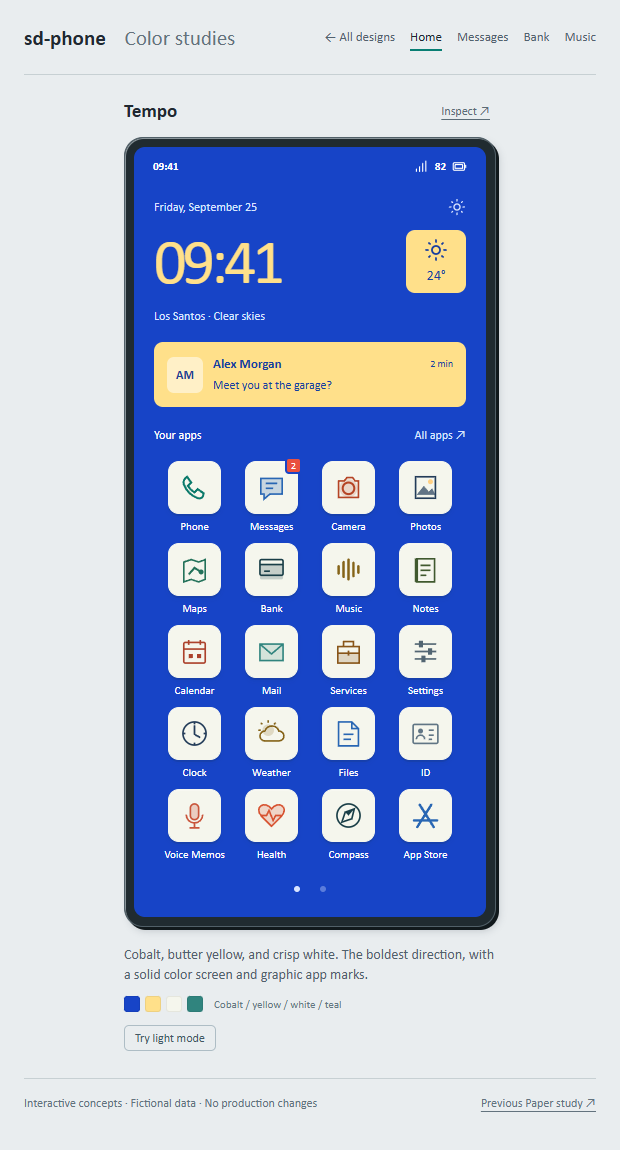
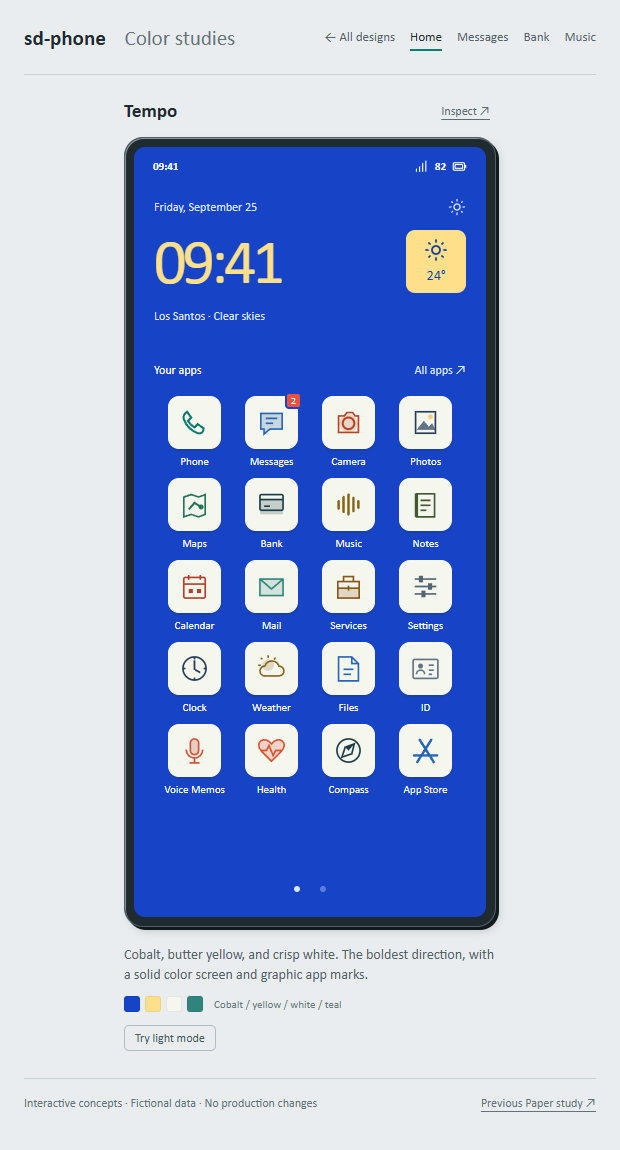
Remove message preview card from phone concept home screens

Changed region(s): [[0.2452, 0.2739, 0.7661, 0.7609]]

diff --git a/designs/phone-concepts/vibrant.html b/designs/phone-concepts/vibrant.html
@@ -52,7 +52,6 @@
     .weather { background: #ffe2b9; color: #613d14; width: 60px; height: 63px; border-radius: 9px; display: flex; align-items: center; justify-content: center; flex-direction: column; gap: 5px; font-size: 14px; }
     .weather .icon { width: 24px; height: 24px; }
     .place { color: var(--muted); font-size: 12px; margin-bottom: 19px; }
-    .message-preview { width: 100%; border: 1px solid var(--line); background: var(--surface); border-radius: 9px; padding: 13px; display: flex; gap: 10px; align-items: center; color: var(--ink); text-align: left; }
     .avatar { width: 36px; height: 36px; display: grid; place-items: center; background: #ffd0b9; color: #733724; border-radius: 7px; font-size: 12px; font-weight: 600; flex-shrink: 0; }
     .preview-copy { flex: 1; font-size: 13px; line-height: 1.45; }
     .preview-copy > div { display: flex; justify-content: space-between; align-items: center; gap: 4px; }
@@ -100,7 +99,6 @@
     .current[data-mode="light"] .app-mark { background: var(--tile); border-color: var(--tile); color: var(--glyph); }
     .tempo .clock { font-size: 78px; color: var(--accent); letter-spacing: -4px; }
     .tempo .weather { background: var(--accent); color: var(--on-accent); }
-    .tempo .message-preview { border: 0; background: var(--accent); color: var(--on-accent); }
     .tempo .preview-copy p, .tempo .preview-copy time { color: var(--on-accent); }
     .tempo .avatar { background: #ffffff85; color: #244093; }
     .tempo .app-mark { background: #f5f6ed; color: var(--tempo-glyph); border-color: #f5f6ed; }
@@ -263,7 +261,7 @@
     const input = label => `<label class="input-field">${icon('search')}<input data-search type="search" placeholder="${label}" aria-label="${label}"></label>`;
     const safe = value => value.replace(/[&<>"']/g, char => ({'&':'&amp;','<':'&lt;','>':'&gt;','"':'&quot;',"'":'&#39;'}[char]));
     function home(id) {
-      return `<div class="home"><div class="greeting"><span>${id === 'current' ? 'Good evening, Alex.' : 'Friday, September 25'}</span>${icon('sun')}</div><div class="clock-row"><div class="clock">${id === 'current' ? '18:41' : '09:41'}</div><div class="weather">${icon('sun')}<span>24°</span></div></div><div class="place">Los Santos${id === 'current' ? ' · 24° · 18:41' : ' · Clear skies'}</div>${id === 'current' ? button('music', `<div class="hero-record">${icon('record')}</div><div><span>Continue listening</span><strong>Late Shift</strong><span>Los Santos FM · Your playlist</span></div>`, 'hero-music') : ''}${button('chat', '<span class="avatar">AM</span><div class="preview-copy"><div><strong>Alex Morgan</strong><time>2 min</time></div><p>Meet you at the garage?</p></div>', 'message-preview')}<div class="apps-caption"><span>Your apps</span>${button('apps','All apps ↗')}</div><div class="home-pager" tabindex="0" aria-label="App pages. Swipe left or right, or use arrow keys."><div class="app-grid">${tile('phone')}</div></div><div class="page-dots" aria-label="Choose an app page"></div></div>`;
+      return `<div class="home"><div class="greeting"><span>${id === 'current' ? 'Good evening, Alex.' : 'Friday, September 25'}</span>${icon('sun')}</div><div class="clock-row"><div class="clock">${id === 'current' ? '18:41' : '09:41'}</div><div class="weather">${icon('sun')}<span>24°</span></div></div><div class="place">Los Santos${id === 'current' ? ' · 24° · 18:41' : ' · Clear skies'}</div>${id === 'current' ? button('music', `<div class="hero-record">${icon('record')}</div><div><span>Continue listening</span><strong>Late Shift</strong><span>Los Santos FM · Your playlist</span></div>`, 'hero-music') : ''}<div class="apps-caption"><span>Your apps</span>${button('apps','All apps ↗')}</div><div class="home-pager" tabindex="0" aria-label="App pages. Swipe left or right, or use arrow keys."><div class="app-grid">${tile('phone')}</div></div><div class="page-dots" aria-label="Choose an app page"></div></div>`;
     }
     function content(id,s) {
       if(s.page === 'home') return home(id);

diff --git a/designs/phone-concepts/README.md b/designs/phone-concepts/README.md
@@ -6,7 +6,7 @@ Open `vibrant.html` for three fresh directions: **Coast** (clean white or dark g
 
 Open `vibrant.html?study=coast` to compare the selected Coast design in both modes. Light mode uses pure white `#ffffff`, dark text `#23262c`, and neutral surfaces `#f2f3f5`. Dark mode uses dark grey `#222428`, white text `#f4f5f7`, and graphite surfaces `#303338`. Backgrounds, text, borders, and the device frame have no green tint; individual app icons retain their colors.
 
-The home-screen music strip and bottom Home / Apps / Messages navigation bar have been removed. All 33 registry apps use a compact four-column grid with iPhone-style horizontal pages, not a vertically scrolling home grid. Swipe left/right on touch screens or drag with a mouse; pages snap into place. Click the page dots or focus the grid and use left/right arrow keys to navigate. Rows are packed to fit each preview without clipping or vertical scrolling, and returning from an app preserves the home page. Icons retain their original size and matching graphic marks. All apps still opens the searchable directory. Removed apps are not included. These are preview tiles, not new production apps. The controls above the phones remain available for comparing example screens.
+The home-screen message preview, music strip, and bottom Home / Apps / Messages navigation bar have been removed. All 33 registry apps use a compact four-column grid with iPhone-style horizontal pages, not a vertically scrolling home grid. Swipe left/right on touch screens or drag with a mouse; pages snap into place. Click the page dots or focus the grid and use left/right arrow keys to navigate. Rows are packed to fit each preview without clipping or vertical scrolling, and returning from an app preserves the home page. Icons retain their original size and matching graphic marks. All apps still opens the searchable directory. Removed apps are not included. These are preview tiles, not new production apps. The controls above the phones remain available for comparing example screens.
 
 Screenshots are in `screenshots/vibrant/`. Run `node designs/phone-concepts/capture-vibrant.mjs` to refresh them and check interactions. This uses the existing Playwright dependency and installed Chrome.
 
